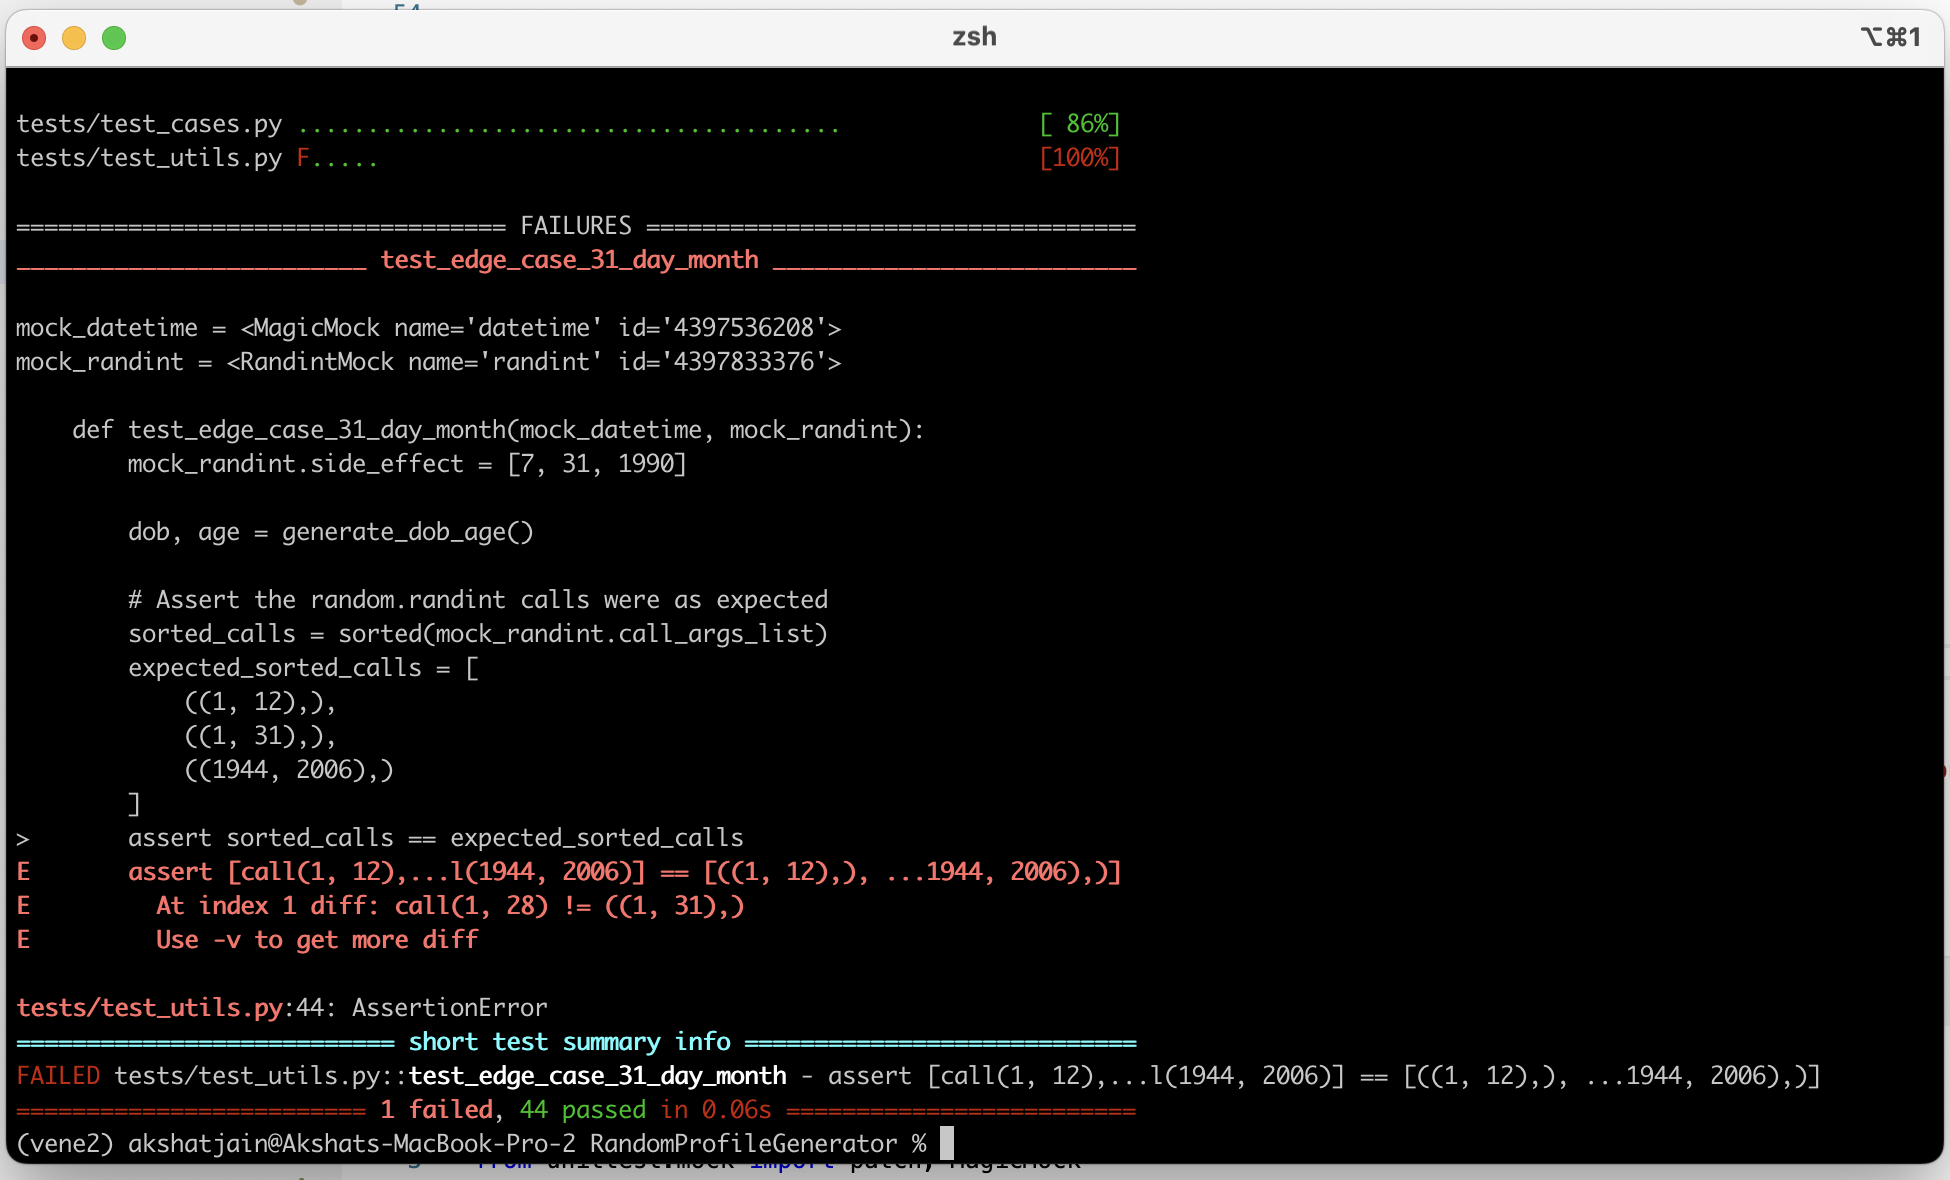
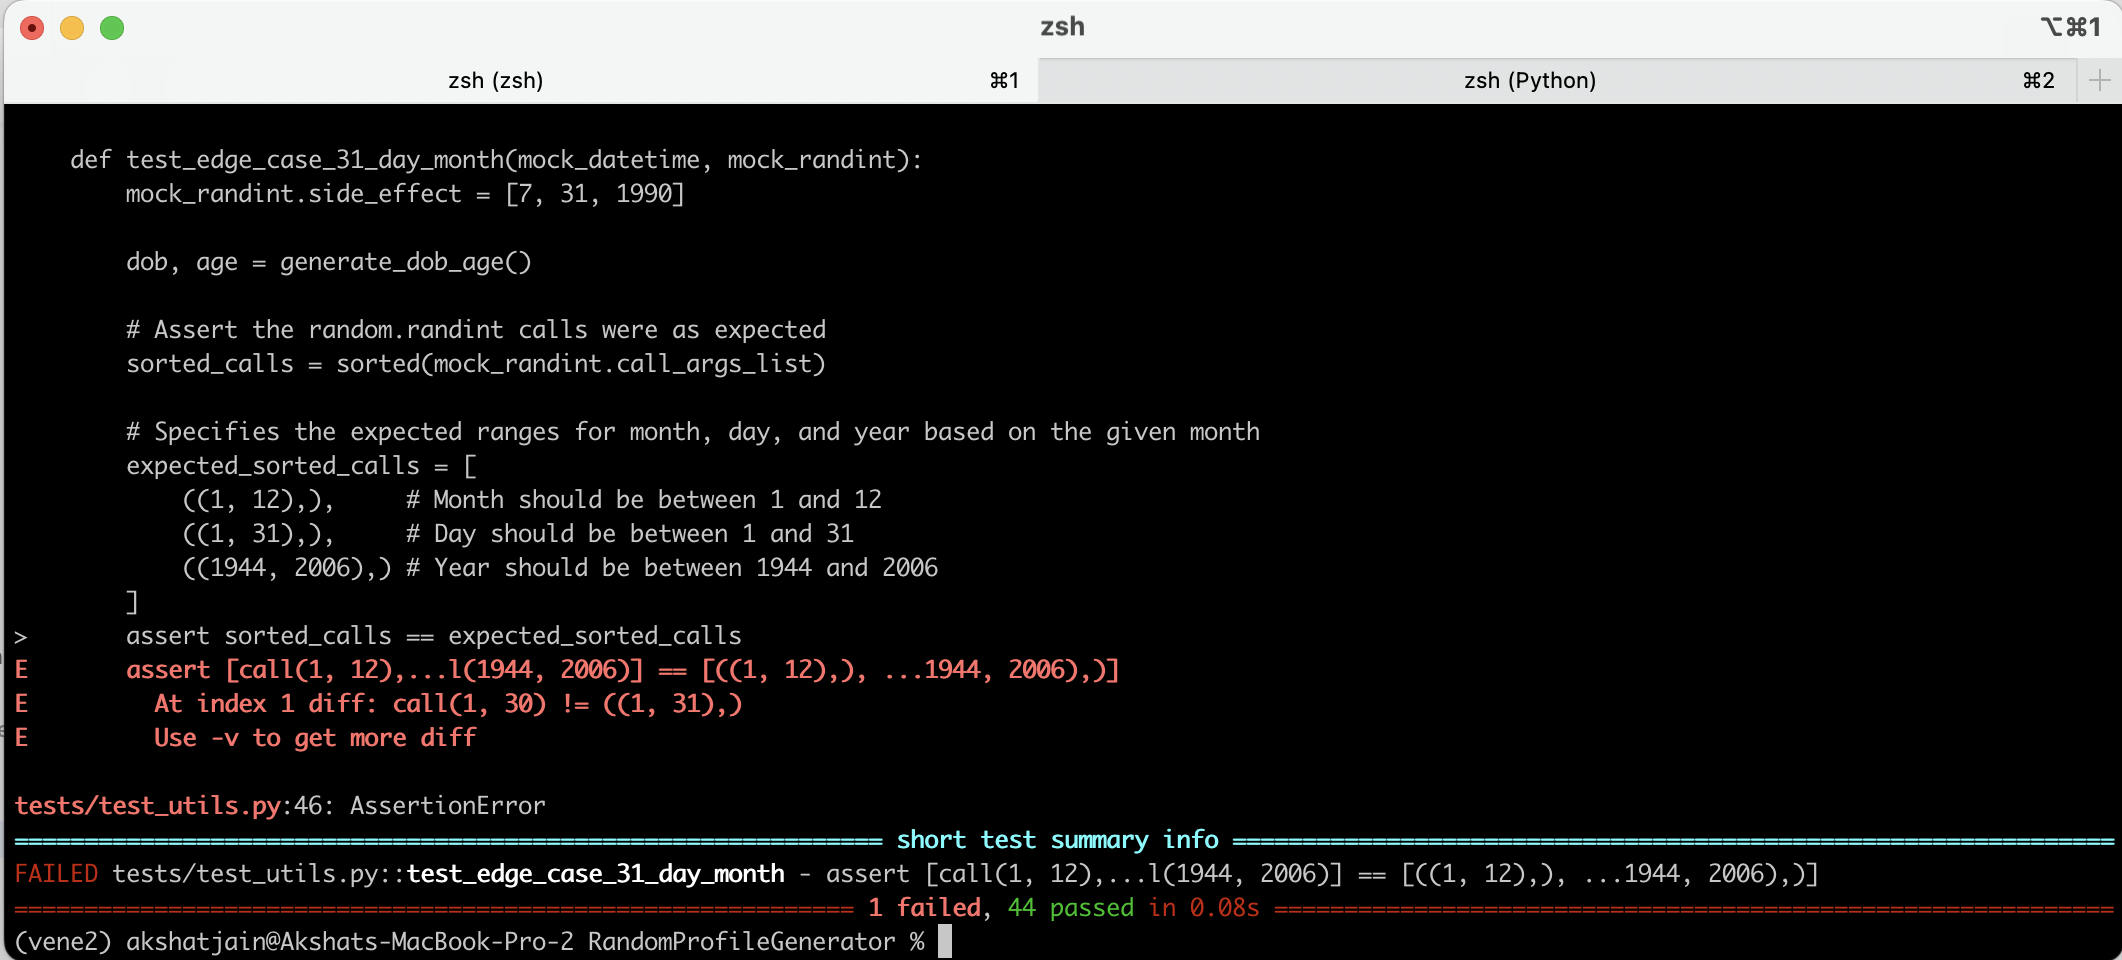
updated features and llm code

Changed region(s): [[0.0, 0.0, 1.0, 1.0], [0.4308, 0.6875, 0.5846, 0.75]]

diff --git a/RandomProfileGenerator/features/feature_1/with_flawed_solution.py b/RandomProfileGenerator/features/feature_1/with_flawed_solution.py
@@ -1,13 +1,15 @@
+```
 def generate_dob_age() -> tuple:
     """
     - Create a function `generate_dob_age` that generates a random date of birth in format of `date/month/year` and calculates the corresponding age.
-    - the year should be between 18 to 80 years ago
+    - the year should be between 18 to 80 years ago, and account for the different number of days in each month.
     - :return: A tuple containing the date of birth (str) and the age (int).
     """
     current_year = datetime.now().year
     year = random.randint(current_year - 80, current_year - 18)
     month = random.randint(1, 12)
-    day = random.randint(1, 28)
+    day = random.randint(1, 28) if month == 2 else random.randint(1, 30)
     dob = f"{day}/{month}/{year}"
     age = current_year - year
     return dob, age
+```

diff --git a/RandomProfileGenerator/features/feature_1/with_hole.py b/RandomProfileGenerator/features/feature_1/with_hole.py
@@ -54,7 +54,7 @@ def ipv4_gen() -> str:
 
 
 # - Create a function `generate_dob_age` that generates a random date of birth in format of `date/month/year` and calculates the corresponding age.
-# - the year should be between 18 to 80 years ago
+# - the year should be between 18 to 80 years ago, and account for the different number of days in each month.
 # - :return: A tuple containing the date of birth (str) and the age (int).
 $PlaceHolder$
 
